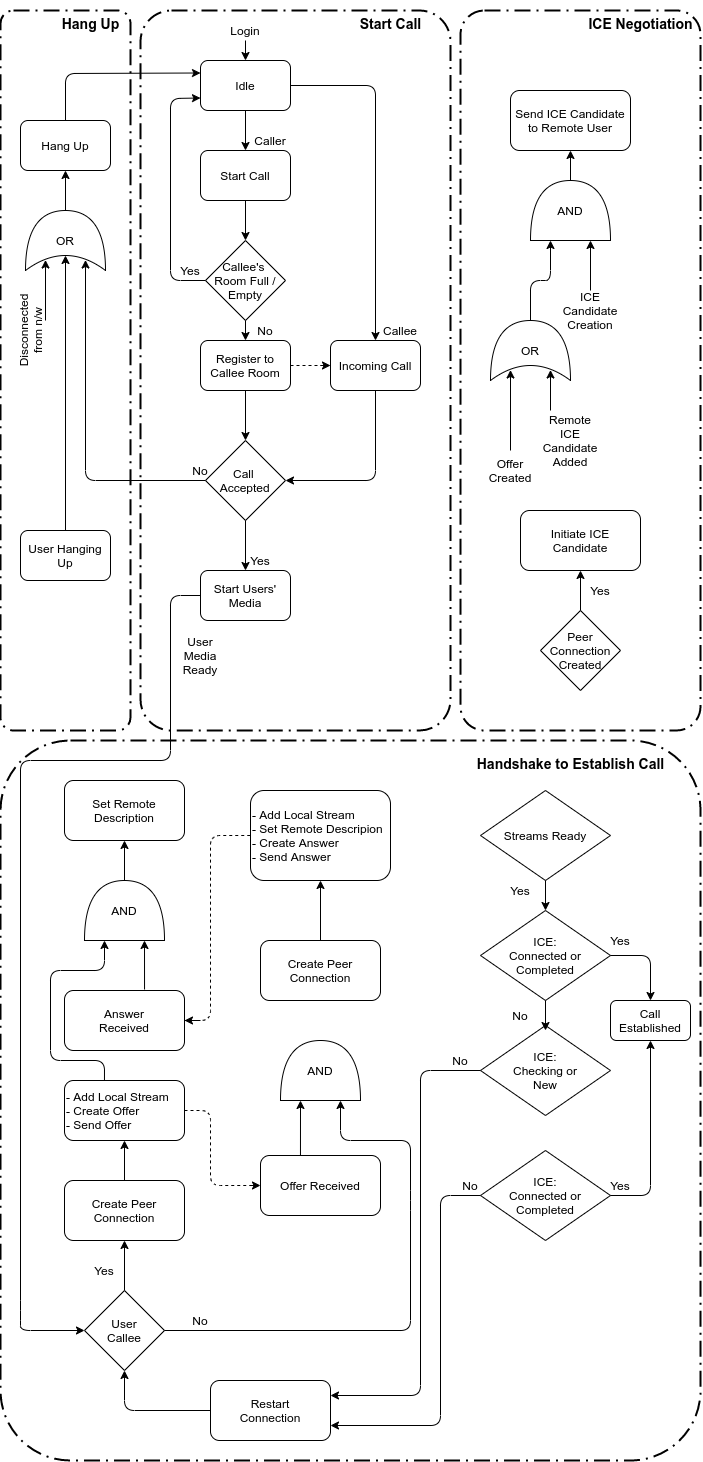
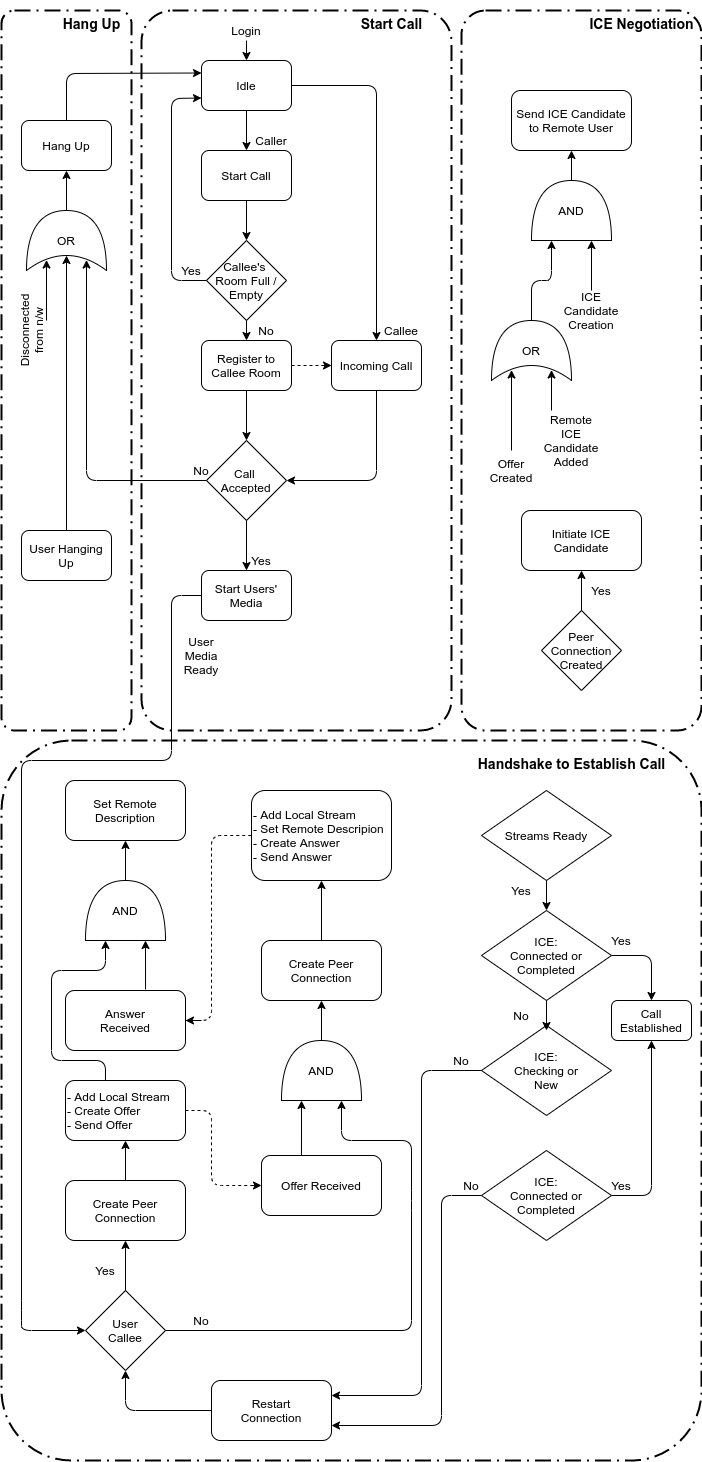
Updates and Inclusions
Update and remove spelling mistakes in introduction
Modification made to CommunicationProtocol image
Updated references
Updated techreview, added bits on security
Add a new image -> simpleWebRTCSystem

diff --git a/techreview.tex b/techreview.tex
@@ -1,13 +1,44 @@
 \chapter{Technology Review}
-\section{Teleconferencing}
-Teleconferencing is an area that encompasses quite a broad spectrum of users. It can range from users simply engaging in a multi-user chat for social reasoning, or can be used in a more professional sense, from the likes of companies engaging with their clients and fellow workers, or to doctors and medical professionals communicating with their clients or fellow specialists. Whatever the use case it is relied on quite heavily on a day to day basis.
-\\Teleconferencing, in the field of medicine, for example, allows to reduce the cost of nursing, to overcome shortages for the work force in health care, to maintain a better health care at home, to enhance the health of the public, to generate better education in terms of health, and to create better doctor-patient and inter-professional relationships [1]. 
-\section{Use Cases}
-Referring back to the field of medicine, WebRTC has been used in the likes of online medical consultation, which aids in the treatment and rehabilitation of patients, and in other cases can be used for diagnosis by transmitting radiology images.
+
 \section{WebRTC}
-Web Real-Time Communication (WebRTC), is an important tool in this regard, and offers real-time communication with web-browsers and mobile applications, and is built and managed in an open source fashion. WebRTC offers the likes of direct file sharing, and peer-to-peer media, without the need for an intermediary server or the use of third-party software [3]. The Application Programming Interface (API) developed for WebRTC has the capability to be used in conjunction for development of data, audio, and video channels. The API for WebRTC has three main elements: (i) PeerConnection, (ii) DataChannel, (iii) MediaStream [2]. PeerConnection generates a direct form of communication between users/peers. DataChannel is the transportation of data as a service between users via a bidirectional peer-to-peer connections. The MediaStream has the capabilities  to create video and audio streams, and also manages the content of those streams. 
-\section{WebRTC Communication Protocols}
-Figure 3.1 displays the architecture, at a higher level, used in our application. With this, it is necessary that both parties send the necessary protocol information through a socket in order to create a connection. Interactive Connectivity Establishment (ICE) applicants are proposed and classified through this protocol in order to identify and locate peers. First we need to identify the peer address, this is done with a Session Traversal Utilites for Network Address Translator server. A direct media connection is established only if the STUN server is successful in the identification of addresses. Should that not be the case, a Traversal Using Relays around Network Address Translator server allows in the accessing the peers public address and also in media transferring between peers.
+\subsection{About WebRTC}
+Web Real-Time Communication (WebRTC), is an important tool in this regard, and offers real-time communication with web-browsers and mobile applications, and is built and managed in an open source fashion. WebRTC offers the likes of direct file sharing, and peer-to-peer media, without the need for an intermediary server or the use of third-party software \cite{johnston2012webrtc}. 
+\\The Application Programming Interface (API) developed for WebRTC has the capability to be used in conjunction for development of data, audio, and video channels. The API for WebRTC has three main elements: (i) Peer-Connection, (ii) Data-Channel, (iii) Media-Stream \cite{jesup2015webrtc}. Peer-Connection generates a direct form of communication between users/peers. Data-Channel is the transportation of data as a service between users via a bidirectional peer-to-peer connections. The Media-Stream has the capabilities  to create video and audio streams, and also manages the content of those streams \cite{14003034520191201}. 
+
+\subsection{WebRTC Security}
+In comparison to some conventional real-time systems, such as SIP-based soft phones, the communications for WebRTC are controlled directly through the use of a Web-Server, which can be interacted through the use of a JavaScript API. See Figure 3.1.
+\\Complexity is increased when looking at the likes of inter-domain calling, alongside of which bring a number of security challenges \cite{rescorla2013webrtc}.
+
+\begin{figure}[h!]
+    \caption{A Simple WebRTC System.}
+    \label{image:simpleWebRTCSystem}
+    \centering
+    \includegraphics[width=0.5\textwidth]{images/simpleWebRTCSystem.png}
+\end{figure}
+
+\subsubsection{WebRTC Trust Model}
+The trust model in WebRTC fundamentally is the hierarchy of trust, which is rooted in the browser, serving as the user’s Trusted Computing Base (TCB). The browser will ultimately enforce any security property the user wishes. On the converse, no security guarantees are possible should the browser be compromised. In an optimal system, reliance on the trust in external entities apart from the browser would not be done, this however, is not possible for a functional WebRTC system. There exist two categories for other networks: The type in which the browser can authenticate, thus granting permissions to resources with otherwise sensitive access, and those which where authentication is infeasible and therefore are un-trusted  \cite{rescorla2013webrtc}.
+
+\subsubsection{Authenticated Entities}
+In the WebRTC system there exists two major categories of authenticated entries:
+\begin{itemize}
+	\item Calling Services: Sites with a verifiable origin
+	\item Other Users: Peers with a cryptography verifiable origin
+\end{itemize}
+* Note that, however, authentication does not equate to trust. This is in the case of access to device hardware such as webcam or microphone. \cite{rescorla2013webrtc}
+
+\subsubsection{Unauthenticated Entities}
+In cases apart from the entities outlined above, network elements are generally not identifiable, and therefore are un-trust-able. This does not negate the possibility of interaction, instead it means an assumption must be made that interactions are in-feasible \cite{rescorla2013webrtc}.
+
+\subsection{Use-Cases For WebRTC}
+Teleconferencing is an area that encompasses quite a broad spectrum of users. It can range from users simply engaging in a multi-user chat for social reasoning, or can be used in a more professional sense, from the likes of companies engaging with their clients and fellow workers, or to doctors and medical professionals communicating with their clients or fellow specialists. Whatever the use case it is relied on quite heavily on a day to day basis \cite{14003034520191201}.
+
+\subsubsection{Use-Cases For WebRTC: Medicine}
+Teleconferencing, in the field of medicine, for example, allows to reduce the cost of nursing, to overcome shortages for the work force in health care, to maintain a better health care at home, to enhance the health of the public, to generate better education in terms of health, and to create better doctor-patient and inter-professional relationships \cite{14003034520191201}. 
+\\Referring back to the field of medicine, WebRTC has been used in the likes of online medical consultation, which aids in the treatment and rehabilitation of patients, and in other cases can be used for diagnosis by transmitting radiology images \cite{14003034520191201}. For the likes of the World Health Organisation, the use of telemedicine can be used to overcome and breakdown geographical barriers in order to increase access to health care services. The initial benefit being in the likes of rural or underdeveloped communities, communities in which would normally lack the access of health care. Through the use of WebRTC based applications, a form of ehealth could be used to transfer health resources and health care through electronic means. However, there are many issues when faced with the implementation of this. The likes of which being due to the inadequacy of the systems being used; the level of service quality to user satisfaction; or possibly even the return on investment in relation to the acquisition cost and system maintenance. \cite{S187705091632345620160101}
+
+\subsection{WebRTC Communication Protocols}
+Figure 3.1 displays the architecture, at a higher level, used in our application. With this, it is necessary that both parties send the necessary protocol information through a socket in order to create a connection. Interactive Connectivity Establishment (ICE) applicants are proposed and classified through this protocol in order to identify and locate peers. First we need to identify the peer address, this is done with a Session Traversal Utilites for Network Address Translator server. A direct media connection is established only if the STUN server is successful in the identification of addresses. Should that not be the case, a Traversal Using Relays around Network Address Translator server allows in the accessing the peers public address and also in media transferring between peers\cite{14003034520191201}.
 
 \begin{figure}[h!]
     \caption{WebRTC Communications Architecture.}
@@ -20,7 +51,7 @@ Figure 3.2 displays the protocol used in communication to establish a call proce
 In the first stage, initiation, peers are assigned to different rooms by the socket server when they first log in to the application. The purpose of these rooms are to send the status of communication for the users. This is useful because it sets the users up for the Idle step, in which they can receive or initiate calls. The processes of calling starts by registering with the room of the second/third/n peer to which that peer receiving a call. Should it be a case where the callee’s room is either empty or full, the process of calling is terminated. Should this not be the case, the incoming call is received. Only after the call is received is the WebRTC communication procedure started. 
 \\The use of the WebRTC library is to send and receive media to or from peers. To begin, the peer initiates their media streams, this can either be audio, video, or both. On completion of this, and on ready of the streams, a peer connection is created by the callee, which is added to its local stream, subsequently creating an offer, and then finally sending this offer to the caller. The same procedure will be followed in the case of the text chat communication by taking the ready state of the peers media stream, without the media starting, and the application should start the data channel of text message transfer. On retrieval of this offer, the caller will create a peer connection. They will set a remote description, add the local stream of the offer, generate and answer and finally will send the answer to the callee. A remote description is set once the answer is received by the callee. ICE candidates are initiated only while a peer connection is set. If a local ICE candidate is generated, the protocol will verify the offer of creation, and will add the ICE candidates remote user. Should one of these checked items be available, the candidates local ICE is sent to the remote user, and subsequently will be added by the remote user as a remote ICE candidate.
 \\On ready of local and remote streams, connection states of ICE are controlled. Should the state of ICE be in connected or completed, the call will be generated  and communication screens for audio and video will be presented to the users. If the ICE connection is in a checking or new state, the ICE protocol will wait and check the status periodically. Should this fail i.e the connection is in a different state, then the connection will be closed.
-On call close, the connection and channel of data will be closed and all streams will be interrupted. This should terminate the callee’s room, and set the peers in a new state of ready to receive/create a new call.
+On call close, the connection and channel of data will be closed and all streams will be interrupted. This should terminate the callee’s room, and set the peers in a new state of ready to receive/create a new call \cite{14003034520191201}.
 \begin{figure}[h!]
     \caption{Communication Protocol between Peers.}
     \label{image:commsProtocol}

diff --git a/introduction.tex b/introduction.tex
@@ -1,4 +1,5 @@
 \chapter{Introduction}
-The purpose of this project was to construct an application which replied on modern day frameworks and technologies. We aimed to use these technologies and frameworks to build a self-hosted conference application in which the user could generate their own sessions and chat rooms in which to communicate with others. We had intended to combine these technologies with pre-existing technologies such as WebRTC, or VOIP, to allow the success of the application. During the initial planning stage of this application we had no idea that the relevance of this application would become quite large and necessary due to the outbreak of COVID-19 and the reliance of a solid conference call application.
-\\\\ The aim of this project was to combine a state-of-the-art front-end framework to a reliable and rapid back-end technology which would be connected to a stable and resilient database. The choices we examined and undertook were as follows: Flutter, for the front-end; Flask, for the back-end; MySQL, for the database. A large aim for this project was also to integrate Flutter with WebRTC, which was quite a challenge as Flutter is still quite new and there exist few examples of the correct structure to which the challenge had presented.
-\\\\ The result of this found that Flutter was perhaps not the best approach for this. Although it can be done, it was quite a laborious tool for the job and required quite a lot of skill which was quite difficult to obtain given the timeframe and nature of this project. Flask was proven to be reliable and easy to use, but the combination of Flutter alongside Flask posed the same cumbersome issues as in what the WebRTC had given. This made for a tedious project with very little satisfactory output. 
+The purpose of this project was to construct an application which relied on modern day frameworks and technologies. We aimed to use these technologies and frameworks to build a self-hosted conference application in which the user could generate their own sessions and chat rooms in order to communicate with others. We had intended to combine these technologies with pre-existing technologies such as WebRTC, or VOIP, to allow the success of the application. During the initial planning stage of this application we had no idea that the relevance of this application would become quite large and necessary due to the outbreak of COVID-19 and a solid conference call application would become heavy relied on for day-to-day work.
+\\\\ The aim of this project was to combine a state-of-the-art front-end framework to a reliable and rapid back-end technology which would be connected to a stable and resilient database. The choices we examined and undertook were the following: Flutter, for the front-end; Flask, for the back-end; MySQL, for the database. A large aim for this project was also to integrate Flutter with WebRTC, which was quite a challenge as Flutter is still quite new and there exist few examples of the correct structure to which the challenge had presented.
+\\\\ The result of this found that Flutter was perhaps not the best approach for this. Although it can be done, it was quite a laborious tool for the job and required quite a lot of skill which was quite difficult to obtain given the time-frame and nature of this project. Flask was proven to be reliable and easy to use, but the combination of Flutter alongside Flask posed the same cumbersome issues to which the WebRTC had given. This made for a tedious project with very little satisfactory output. 
+
